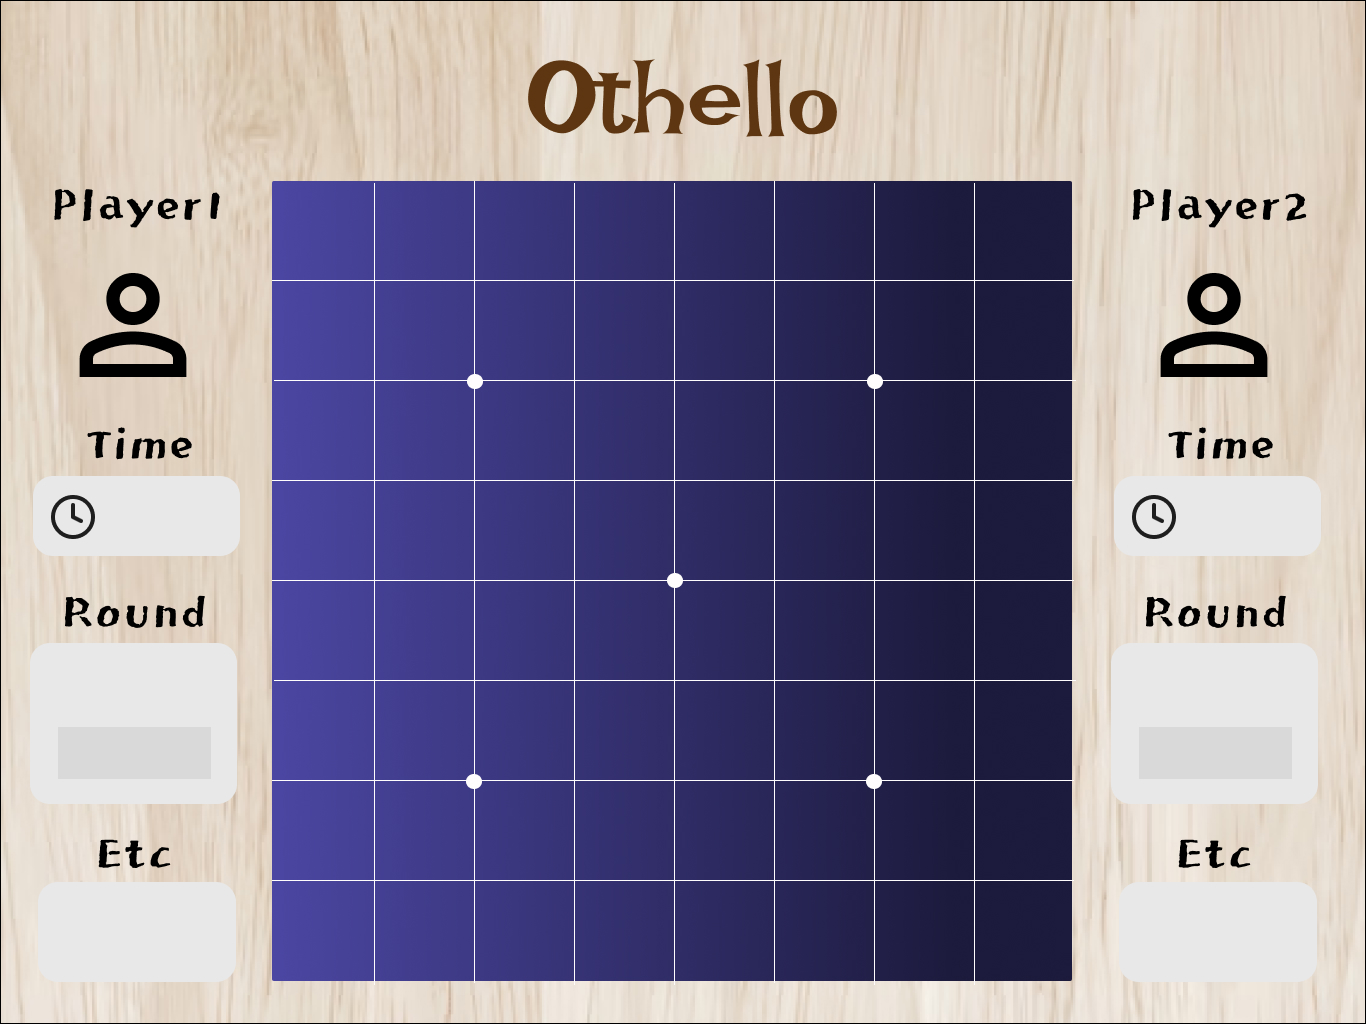
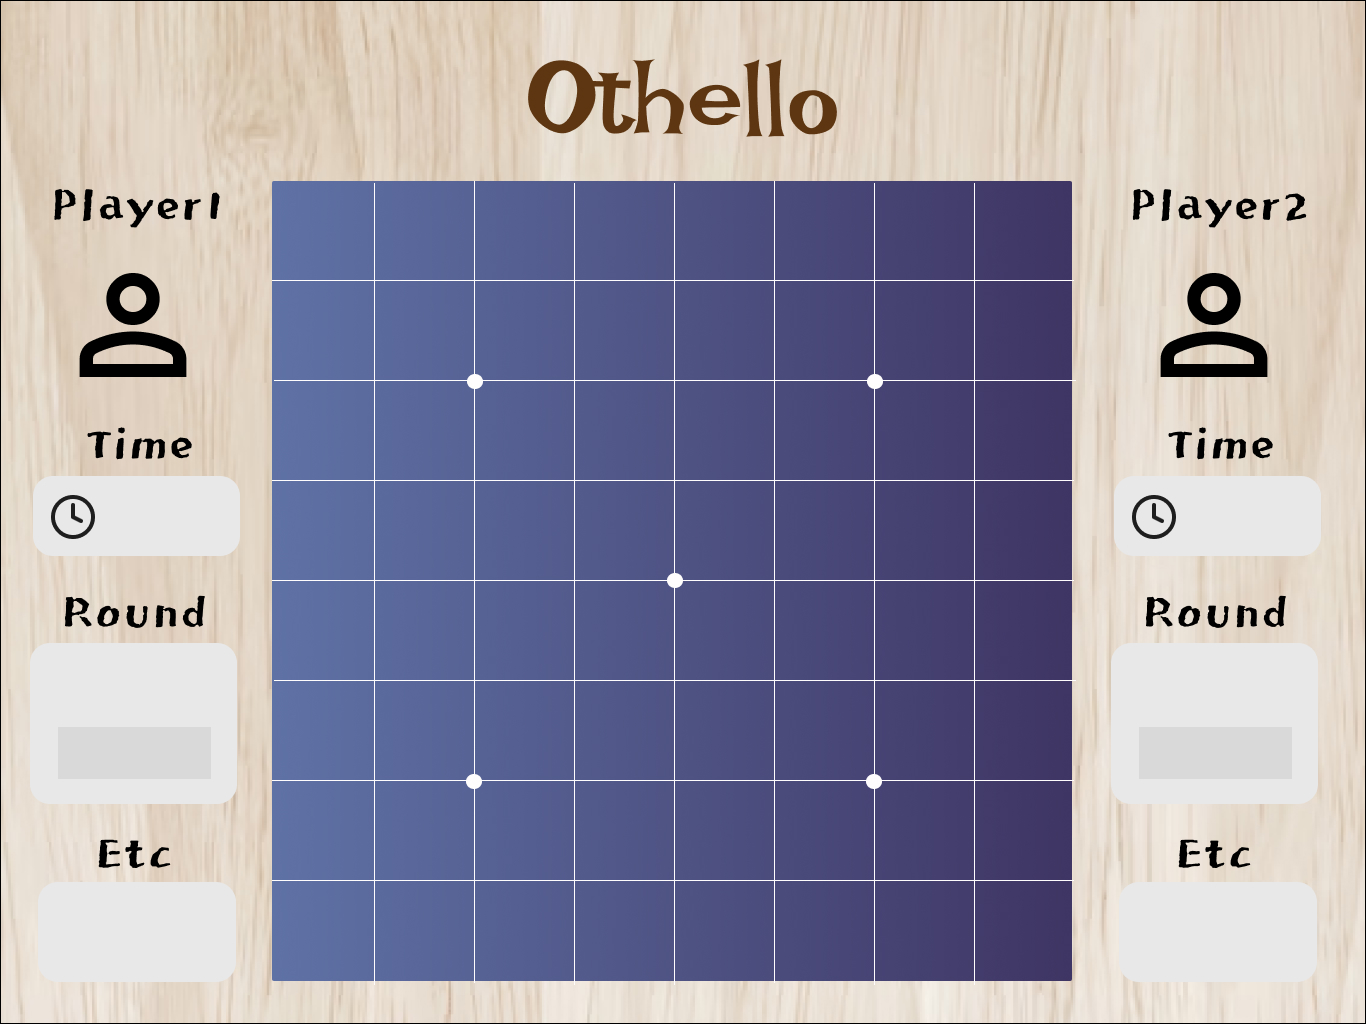
Project6_Othello Game 7/11 PM12:52

diff --git a/src/Main.java b/src/Main.java
@@ -26,12 +26,17 @@ public class Main extends JFrame {
     private int player1_wins = 0; // 플레이어1 승리 수
     private int player2_wins = 0; // 플레이어2 승리 수
     private boolean isPaused = false; // 타이머가 멈춰있는지 여부
+    private boolean night = false; // 밤하늘의 별 모드인지의 여부
     private JButton stopButton; // 멈추기 버튼 참조
+    private JButton modeButton; // 모드 버튼 참조
+    private ImagePanel imagePanel; // 배경 이미지 패널
 
     // 바둑돌 및 별 이미지 경로
     private final String blackImagePath = "/Users/leeyunji/Desktop/2024_SummerStudy/Project6_OthelloGame/src/Image/black.png";
     private final String whiteImagePath = "/Users/leeyunji/Desktop/2024_SummerStudy/Project6_OthelloGame/src/Image/white.png";
     private final String starImagePath = "/Users/leeyunji/Desktop/2024_SummerStudy/Project6_OthelloGame/src/Image/star.png";
+    private final String dayImagePath = "/Users/leeyunji/Desktop/2024_SummerStudy/Project6_OthelloGame/src/Image/Othello.jpg";
+    private final String nightImagePath = "/Users/leeyunji/Desktop/2024_SummerStudy/Project6_OthelloGame/src/Image/Othello1.jpg";
 
     public Main() {
 
@@ -41,78 +46,78 @@ public class Main extends JFrame {
         setDefaultCloseOperation(WindowConstants.EXIT_ON_CLOSE);
 
         // 배경 이미지 패널 설정
-        JPanel ImagePanel = new JPanel() {
-            Image background = new ImageIcon(getClass().getResource("/Image/Othello.jpg")).getImage();
-
-            @Override
-            protected void paintComponent(Graphics g) {
-                super.paintComponent(g);
-                g.drawImage(background, 0, 0, getWidth(), getHeight(), this);
-            }
-        };
-        ImagePanel.setLayout(null);
-        ImagePanel.setBounds(0, 0, 1000, 750);
-        add(ImagePanel);
+        imagePanel = new ImagePanel();
+        imagePanel.setLayout(null);
+        imagePanel.setBounds(0, 0, 1000, 750);
+        add(imagePanel);
 
         // 플레이어1 타이머 레이블 설정
         player1_timerLabel.setBounds(90, 348, 100, 35);
         player1_timerLabel.setFont(new Font("Serif", Font.BOLD, 30));
-        ImagePanel.add(player1_timerLabel);
+        imagePanel.add(player1_timerLabel);
 
         // 플레이어2 타이머 레이블 설정
         player2_timerLabel.setBounds(880, 348, 100, 35);
         player2_timerLabel.setFont(new Font("Serif", Font.BOLD, 30));
-        ImagePanel.add(player2_timerLabel);
+        imagePanel.add(player2_timerLabel);
 
         // 플레이어1 점수 레이블 설정
         player1_scoreLabel.setBounds(90, 512, 100, 35);
         player1_scoreLabel.setFont(new Font("Serif", Font.BOLD, 30));
-        ImagePanel.add(player1_scoreLabel);
+        imagePanel.add(player1_scoreLabel);
 
         // 플레이어2 점수 레이블 설정
         player2_scoreLabel.setBounds(885, 512, 100, 35);
         player2_scoreLabel.setFont(new Font("Serif", Font.BOLD, 30));
-        ImagePanel.add(player2_scoreLabel);
+        imagePanel.add(player2_scoreLabel);
 
         // 플레이어1 승리 라운드 레이블 설정
         player1_winsLabel.setBounds(72, 436, 200, 100);
         player1_winsLabel.setFont(new Font("Serif", Font.PLAIN, 40));
-        ImagePanel.add(player1_winsLabel);
+        imagePanel.add(player1_winsLabel);
 
         // 플레이어2 승리 라운드 레이블 설정
         player2_winsLabel.setBounds(864, 436, 200, 100);
         player2_winsLabel.setFont(new Font("Serif", Font.PLAIN, 40));
-        ImagePanel.add(player2_winsLabel);
+        imagePanel.add(player2_winsLabel);
 
         // 플레이어1 턴 레이블 설정
         player1_turnLabel.setBounds(40, 100, 200, 35);
         player1_turnLabel.setFont(new Font("Arial", Font.PLAIN, 15));
         player1_turnLabel.setForeground(Color.RED);
-        ImagePanel.add(player1_turnLabel);
+        imagePanel.add(player1_turnLabel);
 
         // 플레이어2 턴 레이블 설정
         player2_turnLabel.setBounds(835, 100, 200, 35);
         player2_turnLabel.setFont(new Font("Arial", Font.PLAIN, 15));
         player2_turnLabel.setForeground(Color.RED);
-        ImagePanel.add(player2_turnLabel);
+        imagePanel.add(player2_turnLabel);
 
         // 게임 시작 버튼--------------------------------------------------------------------------------
         JButton gameStart = new JButton("게임시작");
         gameStart.setBounds(845, 20, 100, 35);
-        ImagePanel.add(gameStart);
+        imagePanel.add(gameStart);
 
         // 도움말 버튼
         JButton helpButton = new JButton("\uD83D\uDCA1도움말");
-        helpButton.setBounds(5, 20, 100, 35);
+        helpButton.setBounds(5, 30, 100, 35);
         helpButton.setBorderPainted(false); // 버튼 투명하게 만들기
         helpButton.setContentAreaFilled(false); // 버튼 투명하게 만들기
         helpButton.addActionListener(e -> openHelpLink());
-        ImagePanel.add(helpButton);
+        imagePanel.add(helpButton);
+
+        // 테마 바꾸기 버튼
+        modeButton = new JButton("밤하늘");
+        modeButton.setBounds(10, 55, 100, 35);
+        modeButton.setBorderPainted(false); // 버튼 투명하게 만들기
+        modeButton.setContentAreaFilled(false); // 버튼 투명하게 만들기
+        modeButton.addActionListener(e -> toggleMode());
+        imagePanel.add(modeButton);
 
         // 멈추기 버튼
         stopButton = new JButton("멈추기");
         stopButton.setBounds(845, 60, 100, 35);
-        ImagePanel.add(stopButton);
+        imagePanel.add(stopButton);
 
         // 흑 & 백 돌 버튼 설정
         int x = 197, y = 126;
@@ -126,7 +131,7 @@ public class Main extends JFrame {
                 // 바둑돌 그림 올릴 레이블
                 labels[i][j] = new JLabel();
                 labels[i][j].setBounds(x + 10, y + 1, 78, 75);
-                ImagePanel.add(labels[i][j]);
+                imagePanel.add(labels[i][j]);
 
                 // 클릭하는 곳의 인덱스
                 int clickX = i;
@@ -134,7 +139,7 @@ public class Main extends JFrame {
 
                 // 버튼을 누르면 사진이 올려지도록
                 button[i][j].addActionListener(e -> handleButtonClick(clickX, clickY));
-                ImagePanel.add(button[i][j]);
+                imagePanel.add(button[i][j]);
                 button[i][j].setEnabled(false); // 초기 상태에서 버튼 비활성화
                 x += 73;
             }
@@ -158,11 +163,15 @@ public class Main extends JFrame {
     // 타이머 설정 메소드------------------------------------------------------------------------
     private void setTimer() {
         String time = JOptionPane.showInputDialog(this, "제한 시간을 초 단위로 입력하세요:");
-        int seconds = Integer.parseInt(time);
-        player1_timeRemaining = seconds;
-        player2_timeRemaining = seconds;
-        player1_timerLabel.setText(time);
-        player2_timerLabel.setText(time);
+        try {
+            int seconds = Integer.parseInt(time);
+            player1_timeRemaining = seconds;
+            player2_timeRemaining = seconds;
+            player1_timerLabel.setText(time);
+            player2_timerLabel.setText(time);
+        } catch (NumberFormatException e) {
+            JOptionPane.showMessageDialog(this, "올바른 숫자를 입력하세요.", "입력 오류", JOptionPane.ERROR_MESSAGE);
+        }
     }
 
     // 게임 시작 메소드------------------------------------------------------------------------
@@ -227,6 +236,13 @@ public class Main extends JFrame {
                 });
             }
         }, 1000, 1000);
+    }
+
+    private void toggleMode() {
+        night = !night;
+        modeButton.setText(night ? "기본 모드" : "밤하늘");
+        imagePanel.setBackgroundImage(night ? nightImagePath : dayImagePath);
+        imagePanel.repaint();
     }
 
     private void togglePause() {
@@ -540,6 +556,26 @@ public class Main extends JFrame {
             Desktop.getDesktop().browse(new java.net.URI("https://youtu.be/6haugpRYGGs?feature=shared"));
         } catch (Exception e) {
             e.printStackTrace();
+        }
+    }
+
+    // ImagePanel 클래스 정의
+    private class ImagePanel extends JPanel {
+        private Image backgroundImage;
+
+        public ImagePanel() {
+            this.backgroundImage = new ImageIcon(dayImagePath).getImage();
+        }
+
+        public void setBackgroundImage(String imagePath) {
+            this.backgroundImage = new ImageIcon(imagePath).getImage();
+            repaint();
+        }
+
+        @Override
+        protected void paintComponent(Graphics g) {
+            super.paintComponent(g);
+            g.drawImage(backgroundImage, 0, 0, getWidth(), getHeight(), this);
         }
     }
 
